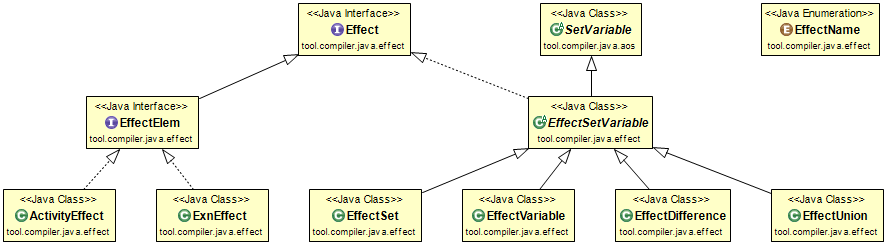
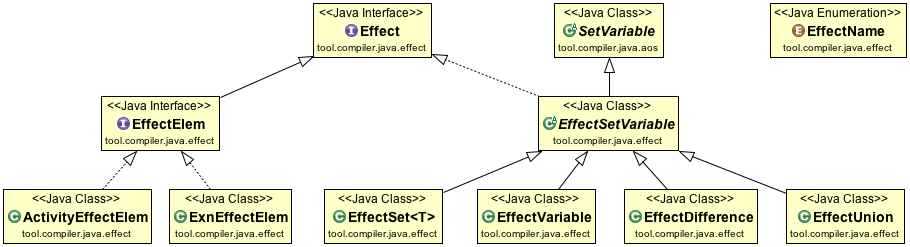
ActivityEffectVariable and ExnEffectVariable

diff --git a/JavaAnalyzer/src/tool/compiler/java/effect/ActivityEffectVariable.java b/JavaAnalyzer/src/tool/compiler/java/effect/ActivityEffectVariable.java
@@ -1,0 +1,117 @@
+package tool.compiler.java.effect;
+
+import polyglot.ast.Call;
+import polyglot.ast.Expr;
+import polyglot.types.MethodInstance;
+import polyglot.types.ReferenceType;
+import polyglot.types.Type;
+import tool.compiler.java.aos.MetaSetVariable;
+import tool.compiler.java.ast.expr.EquGenExprExt;
+
+public class ActivityEffectVariable extends EffectVariable {
+	
+	private static final String CONTAINER = "android.content.Activity";
+	private static enum MethodName { 
+		startActivity, startActivities, startActivityForResult, 
+		startActivityFromChild, startActivityFromFragment, 
+		startActivityIfNeeded, startNextMatchingActivity;
+		
+		private final int getIntentParamIndex() {
+			switch (this) {
+//			case startActivity:
+//			case startActivities:
+//			case startActivityForResult:
+//			case startActivityIfNeeded:
+//			case startNextMatchingActivity:
+//				return 0;
+			case startActivityFromChild:
+			case startActivityFromFragment:
+				return 1;
+			default:
+				return 0;
+			}
+		}
+	};
+	
+	/**
+	 * 
+	 */
+	public ActivityEffectVariable() {
+		super(null);
+	}
+	
+	protected ActivityEffectVariable(MetaSetVariable chi_intent) {
+		super(EffectName.ActivityEff, chi_intent);
+	}
+	
+	/**
+	 * @param chi_effect
+	 */
+	public ActivityEffectVariable(Call callNode) {
+		this(getIntentMetaSetVar(callNode));
+	}
+	
+
+	/**
+	 * Intent Param의 MetaSetVariable을 반환
+	 * @param callNode
+	 * @return
+	 */
+	private static MetaSetVariable getIntentMetaSetVar(Call callNode) {
+		MethodName mthName = getMethodName(callNode);	// Check Creatable
+		try {
+			Expr intentExpr = callNode.arguments().get(mthName.getIntentParamIndex());
+			return EquGenExprExt.metaSetVar(intentExpr);
+		} catch (IllegalArgumentException e) {
+			throw new IllegalArgumentException(
+					"This method is not Starting Activity");
+		}
+	}
+	
+	/**
+	 * android.content.Activity로부터 상속받은 Starting Activity 메서드인지 확인하고, 
+	 * 그 메서드의 이름을 반환
+	 * @param callNode
+	 * @return
+	 */
+	private static MethodName getMethodName(Call callNode) {
+		MethodName mthName = MethodName.valueOf(callNode.name());	// IllegalArgumentException
+		if (checkContainer(callNode.methodInstance())) {
+			return mthName;
+		}
+		return null;
+	}
+	
+	/**
+	 * 부모 및 조상 클래스에 android.content.Activity가 있는지 확인
+	 * @param mthIns
+	 * @return
+	 */
+	private static boolean checkContainer(MethodInstance mthIns) {
+		if (!mthIns.flags().isStatic()) {
+			Type superType = mthIns.container();
+			ReferenceType type;
+			do {
+				type = (ReferenceType) superType;
+				if (type.toString().equals(CONTAINER)) {
+					return true;
+				}
+				superType = type.superType();
+			} while (superType != null && superType instanceof ReferenceType);
+		} 
+		return false;
+	}
+	
+	/**
+	 * Activity Effect를 생성할 수 있는 Call Node인지 확인
+	 * @param callNode
+	 * @return
+	 */
+	public static boolean checkCreatable(Call callNode) {
+		try {
+			return getMethodName(callNode) != null;
+		} catch (IllegalArgumentException e) {
+			return false;
+		}
+	}
+}

diff --git a/JavaAnalyzer/src/tool/compiler/java/ast/stmt/EquGenAbstractCatchExt.java b/JavaAnalyzer/src/tool/compiler/java/ast/stmt/EquGenAbstractCatchExt.java
@@ -9,7 +9,7 @@ import tool.compiler.java.aos.MetaSetVariable;
 import tool.compiler.java.ast.EquGenExt;
 import tool.compiler.java.effect.EffectSet;
 import tool.compiler.java.effect.EffectSetVariable;
-import tool.compiler.java.effect.ExnEffect;
+import tool.compiler.java.effect.ExnEffectElem;
 import tool.compiler.java.env.LocalEnvironment;
 import tool.compiler.java.env.TypeEnvironment;
 import tool.compiler.java.util.ReportUtil;
@@ -29,7 +29,7 @@ public abstract class EquGenAbstractCatchExt extends EquGenStmtExt {
 	private static final long serialVersionUID = SerialVersionUID.generate();
 	public static final String KIND = "Catch";
 	
-	private EffectSet<ExnEffect> effect_formal = null;
+	private EffectSet<ExnEffectElem> effect_formal = null;
 	
 	@Override
 	public EquGenerator equGenEnter(EquGenerator v) {
@@ -76,7 +76,7 @@ public abstract class EquGenAbstractCatchExt extends EquGenStmtExt {
 	/**
 	 * @return the formalTypes
 	 */
-	public final EffectSet<ExnEffect> formalTypes() {
+	public final EffectSet<ExnEffectElem> formalTypes() {
 		return effect_formal;
 	}
 	
@@ -84,14 +84,14 @@ public abstract class EquGenAbstractCatchExt extends EquGenStmtExt {
 	 * @param n node
 	 * @return the formalTypes of node n
 	 */
-	public static final EffectSet<ExnEffect> formalTypes(Catch n) {
+	public static final EffectSet<ExnEffectElem> formalTypes(Catch n) {
 		return ((EquGenAbstractCatchExt) EquGenExt.ext(n)).formalTypes();
 	}
 	
 	/**
 	 * @param formalTypes the formalTypes to set
 	 */
-	protected final void setFormalTypes(EffectSet<ExnEffect> formalTypes) {
+	protected final void setFormalTypes(EffectSet<ExnEffectElem> formalTypes) {
 		this.effect_formal = formalTypes;
 	}
 }

diff --git a/JavaAnalyzer/src/tool/compiler/java/ast/stmt/EquGenMultiCatchExt.java b/JavaAnalyzer/src/tool/compiler/java/ast/stmt/EquGenMultiCatchExt.java
@@ -8,7 +8,7 @@ import polyglot.ext.jl5.types.JL5ClassType;
 import polyglot.ext.jl7.ast.MultiCatch;
 import polyglot.util.SerialVersionUID;
 import tool.compiler.java.effect.EffectSet;
-import tool.compiler.java.effect.ExnEffect;
+import tool.compiler.java.effect.ExnEffectElem;
 import tool.compiler.java.util.ReportUtil;
 import tool.compiler.java.util.ReportUtil.EffectSetVarGoal;
 import tool.compiler.java.util.ReportUtil.EffectSetVarSource;
@@ -37,11 +37,11 @@ public class EquGenMultiCatchExt extends EquGenAbstractCatchExt {
 		
 		// catch (C1 | ... | Cn e) { stmt }
 		//   1. e의 타입 C1, ... , Cn을 가져와 EffectSet을 만들고 이를 리턴하고,
-		ArrayList<ExnEffect> cs = new ArrayList<>();
+		ArrayList<ExnEffectElem> cs = new ArrayList<>();
 		for (TypeNode ci : multiCatch.alternatives()) {
-			cs.add(new ExnEffect((JL5ClassType) ci.type()));
+			cs.add(new ExnEffectElem((JL5ClassType) ci.type()));
 		}
-		EffectSet<ExnEffect> exnEffect = new EffectSet<>(cs);
+		EffectSet<ExnEffectElem> exnEffect = new EffectSet<>(cs);
 		setFormalTypes(exnEffect);
 		ReportUtil.report(exnEffect, EffectSetVarSource.New, EffectSetVarGoal.Return);
 		

diff --git a/JavaAnalyzer/src/tool/compiler/java/ast/stmt/EquGenTryExt.java b/JavaAnalyzer/src/tool/compiler/java/ast/stmt/EquGenTryExt.java
@@ -9,7 +9,7 @@ import tool.compiler.java.effect.EffectDifference;
 import tool.compiler.java.effect.EffectSet;
 import tool.compiler.java.effect.EffectSetVariable;
 import tool.compiler.java.effect.EffectUnion;
-import tool.compiler.java.effect.ExnEffect;
+import tool.compiler.java.effect.ExnEffectElem;
 import tool.compiler.java.util.ReportUtil;
 import tool.compiler.java.util.ReportUtil.EffectSetVarGoal;
 import tool.compiler.java.util.ReportUtil.EffectSetVarSource;
@@ -64,9 +64,9 @@ public class EquGenTryExt extends EquGenStmtExt {
 			}
 		
 		//   4. catch되는 타입들 C1, ... , Ck을 가져와 그들의 합집합인 X_C를 만들어,
-			final ArrayList<EffectSet<ExnEffect>> cks = new ArrayList<>();
+			final ArrayList<EffectSet<ExnEffectElem>> cks = new ArrayList<>();
 			for (Catch catchBlock : tryStmt.catchBlocks()) {
-				final EffectSet<ExnEffect> ci = EquGenAbstractCatchExt.formalTypes(catchBlock);
+				final EffectSet<ExnEffectElem> ci = EquGenAbstractCatchExt.formalTypes(catchBlock);
 				cks.add(ci);
 			}
 			EffectSetVarSource src_x_c = EffectSetVarSource.SubStatement;

diff --git a/JavaAnalyzer/src/tool/compiler/java/ast/stmt/EquGenCatchExt.java b/JavaAnalyzer/src/tool/compiler/java/ast/stmt/EquGenCatchExt.java
@@ -6,7 +6,7 @@ import polyglot.ext.jl5.types.JL5ClassType;
 import polyglot.types.Type;
 import polyglot.util.SerialVersionUID;
 import tool.compiler.java.effect.EffectSet;
-import tool.compiler.java.effect.ExnEffect;
+import tool.compiler.java.effect.ExnEffectElem;
 import tool.compiler.java.util.ReportUtil;
 import tool.compiler.java.util.ReportUtil.EffectSetVarGoal;
 import tool.compiler.java.util.ReportUtil.EffectSetVarSource;
@@ -36,7 +36,7 @@ public class EquGenCatchExt extends EquGenAbstractCatchExt {
 		// catch (C e) { stmt }
 		//   1. e의 타입 C를 가져와 EffectSet을 만들고 이를 리턴하고,
 		Type c = catchStmt.catchType();
-		EffectSet<ExnEffect> exnEffect = new EffectSet<>(new ExnEffect((JL5ClassType) c));
+		EffectSet<ExnEffectElem> exnEffect = new EffectSet<>(new ExnEffectElem((JL5ClassType) c));
 		setFormalTypes(exnEffect);
 		ReportUtil.report(exnEffect, EffectSetVarSource.New, EffectSetVarGoal.Return);
 		

diff --git a/JavaAnalyzer/src/tool/compiler/java/effect/EffectVariable.java b/JavaAnalyzer/src/tool/compiler/java/effect/EffectVariable.java
@@ -9,7 +9,7 @@ public class EffectVariable extends EffectSetVariable {
 	/**
 	 * @param type
 	 */
-	public EffectVariable(EffectName type) {
+	protected EffectVariable(EffectName type) {
 		super(type);
 	}
 	
@@ -17,9 +17,23 @@ public class EffectVariable extends EffectSetVariable {
 	 * @param type
 	 * @param chi_effect
 	 */
-	public EffectVariable(EffectName type, MetaSetVariable chi_effect) {
+	protected EffectVariable(EffectName type, MetaSetVariable chi_effect) {
 		super(type);
 		this.chi_effect = chi_effect;
+	}
+	
+	public static EffectVariable create(EffectName type) {
+		return create(type, null);
+	}
+	
+	public static EffectVariable create(EffectName type, MetaSetVariable chi_effect) {
+		switch (type) {
+		case ExnEff:
+			return new ExnEffectVariable(chi_effect);
+		case ActivityEff:
+			return new ActivityEffectVariable(chi_effect);
+		}
+		return new EffectVariable(type, chi_effect);
 	}
 	
 	/**

diff --git a/JavaAnalyzer/src/tool/compiler/java/ast/stmt/EquGenThrowExt.java b/JavaAnalyzer/src/tool/compiler/java/ast/stmt/EquGenThrowExt.java
@@ -5,8 +5,8 @@ import polyglot.ast.Throw;
 import polyglot.util.SerialVersionUID;
 import tool.compiler.java.aos.MetaSetVariable;
 import tool.compiler.java.ast.expr.EquGenExprExt;
-import tool.compiler.java.effect.EffectName;
 import tool.compiler.java.effect.EffectVariable;
+import tool.compiler.java.effect.ExnEffectVariable;
 import tool.compiler.java.util.ReportUtil;
 import tool.compiler.java.util.ReportUtil.EffectSetVarGoal;
 import tool.compiler.java.util.ReportUtil.EffectSetVarSource;
@@ -41,7 +41,7 @@ public class EquGenThrowExt extends EquGenStmtExt {
 		ReportUtil.report(cchi, MetaSetVarSource.SubExpression, MetaSetVarGoal.Effect);
 		
 		//   2. EffectVariable을 만들고
-		EffectVariable exnEffect = new EffectVariable(EffectName.ExnEff, cchi);
+		EffectVariable exnEffect = new ExnEffectVariable(cchi);
 		
 		//   3. 이를 리턴할 exn effect로 지정.
 		setExceptionEffect(exnEffect);

diff --git a/JavaAnalyzer/src/tool/compiler/java/effect/ActivityEffectElem.java b/JavaAnalyzer/src/tool/compiler/java/effect/ActivityEffectElem.java
@@ -1,0 +1,32 @@
+package tool.compiler.java.effect;
+
+import polyglot.ext.jl5.types.JL5ClassType;
+
+/**
+ * Android Activity Effect
+ */
+public class ActivityEffectElem implements EffectElem {
+	
+	private JL5ClassType activity;
+	
+	public ActivityEffectElem(JL5ClassType activity) {
+		this.activity = activity;
+	}
+	
+	@Override
+	public EffectName getEffectType() {
+		return EffectName.ActivityEff;
+	}
+	
+	/**
+	 * @see java.lang.Object#toString()
+	 */
+	@Override
+	public String toString() {
+		try {
+			return activity.name();
+		} catch(NullPointerException e) {
+			return null;
+		}
+	}
+}

diff --git a/JavaAnalyzer/src/tool/compiler/java/effect/ExnEffectElem.java b/JavaAnalyzer/src/tool/compiler/java/effect/ExnEffectElem.java
@@ -5,11 +5,11 @@ import polyglot.ext.jl5.types.JL5ClassType;
 /**
  * Exception Effect
  */
-public class ExnEffect implements EffectElem {
+public class ExnEffectElem implements EffectElem {
 	
 	private JL5ClassType exception;
 	
-	public ExnEffect(JL5ClassType throwableClassType) {
+	public ExnEffectElem(JL5ClassType throwableClassType) {
 		this.exception = throwableClassType;
 	}
 	

diff --git a/JavaAnalyzer/src/tool/compiler/java/effect/ExnEffectVariable.java b/JavaAnalyzer/src/tool/compiler/java/effect/ExnEffectVariable.java
@@ -1,0 +1,20 @@
+package tool.compiler.java.effect;
+
+import tool.compiler.java.aos.MetaSetVariable;
+
+public class ExnEffectVariable extends EffectVariable {
+	
+	/**
+	 * 
+	 */
+	public ExnEffectVariable() {
+		this(null);
+	}
+	
+	/**
+	 * @param chi_effect
+	 */
+	public ExnEffectVariable(MetaSetVariable chi_effect) {
+		super(EffectName.ExnEff, chi_effect);
+	}
+}
